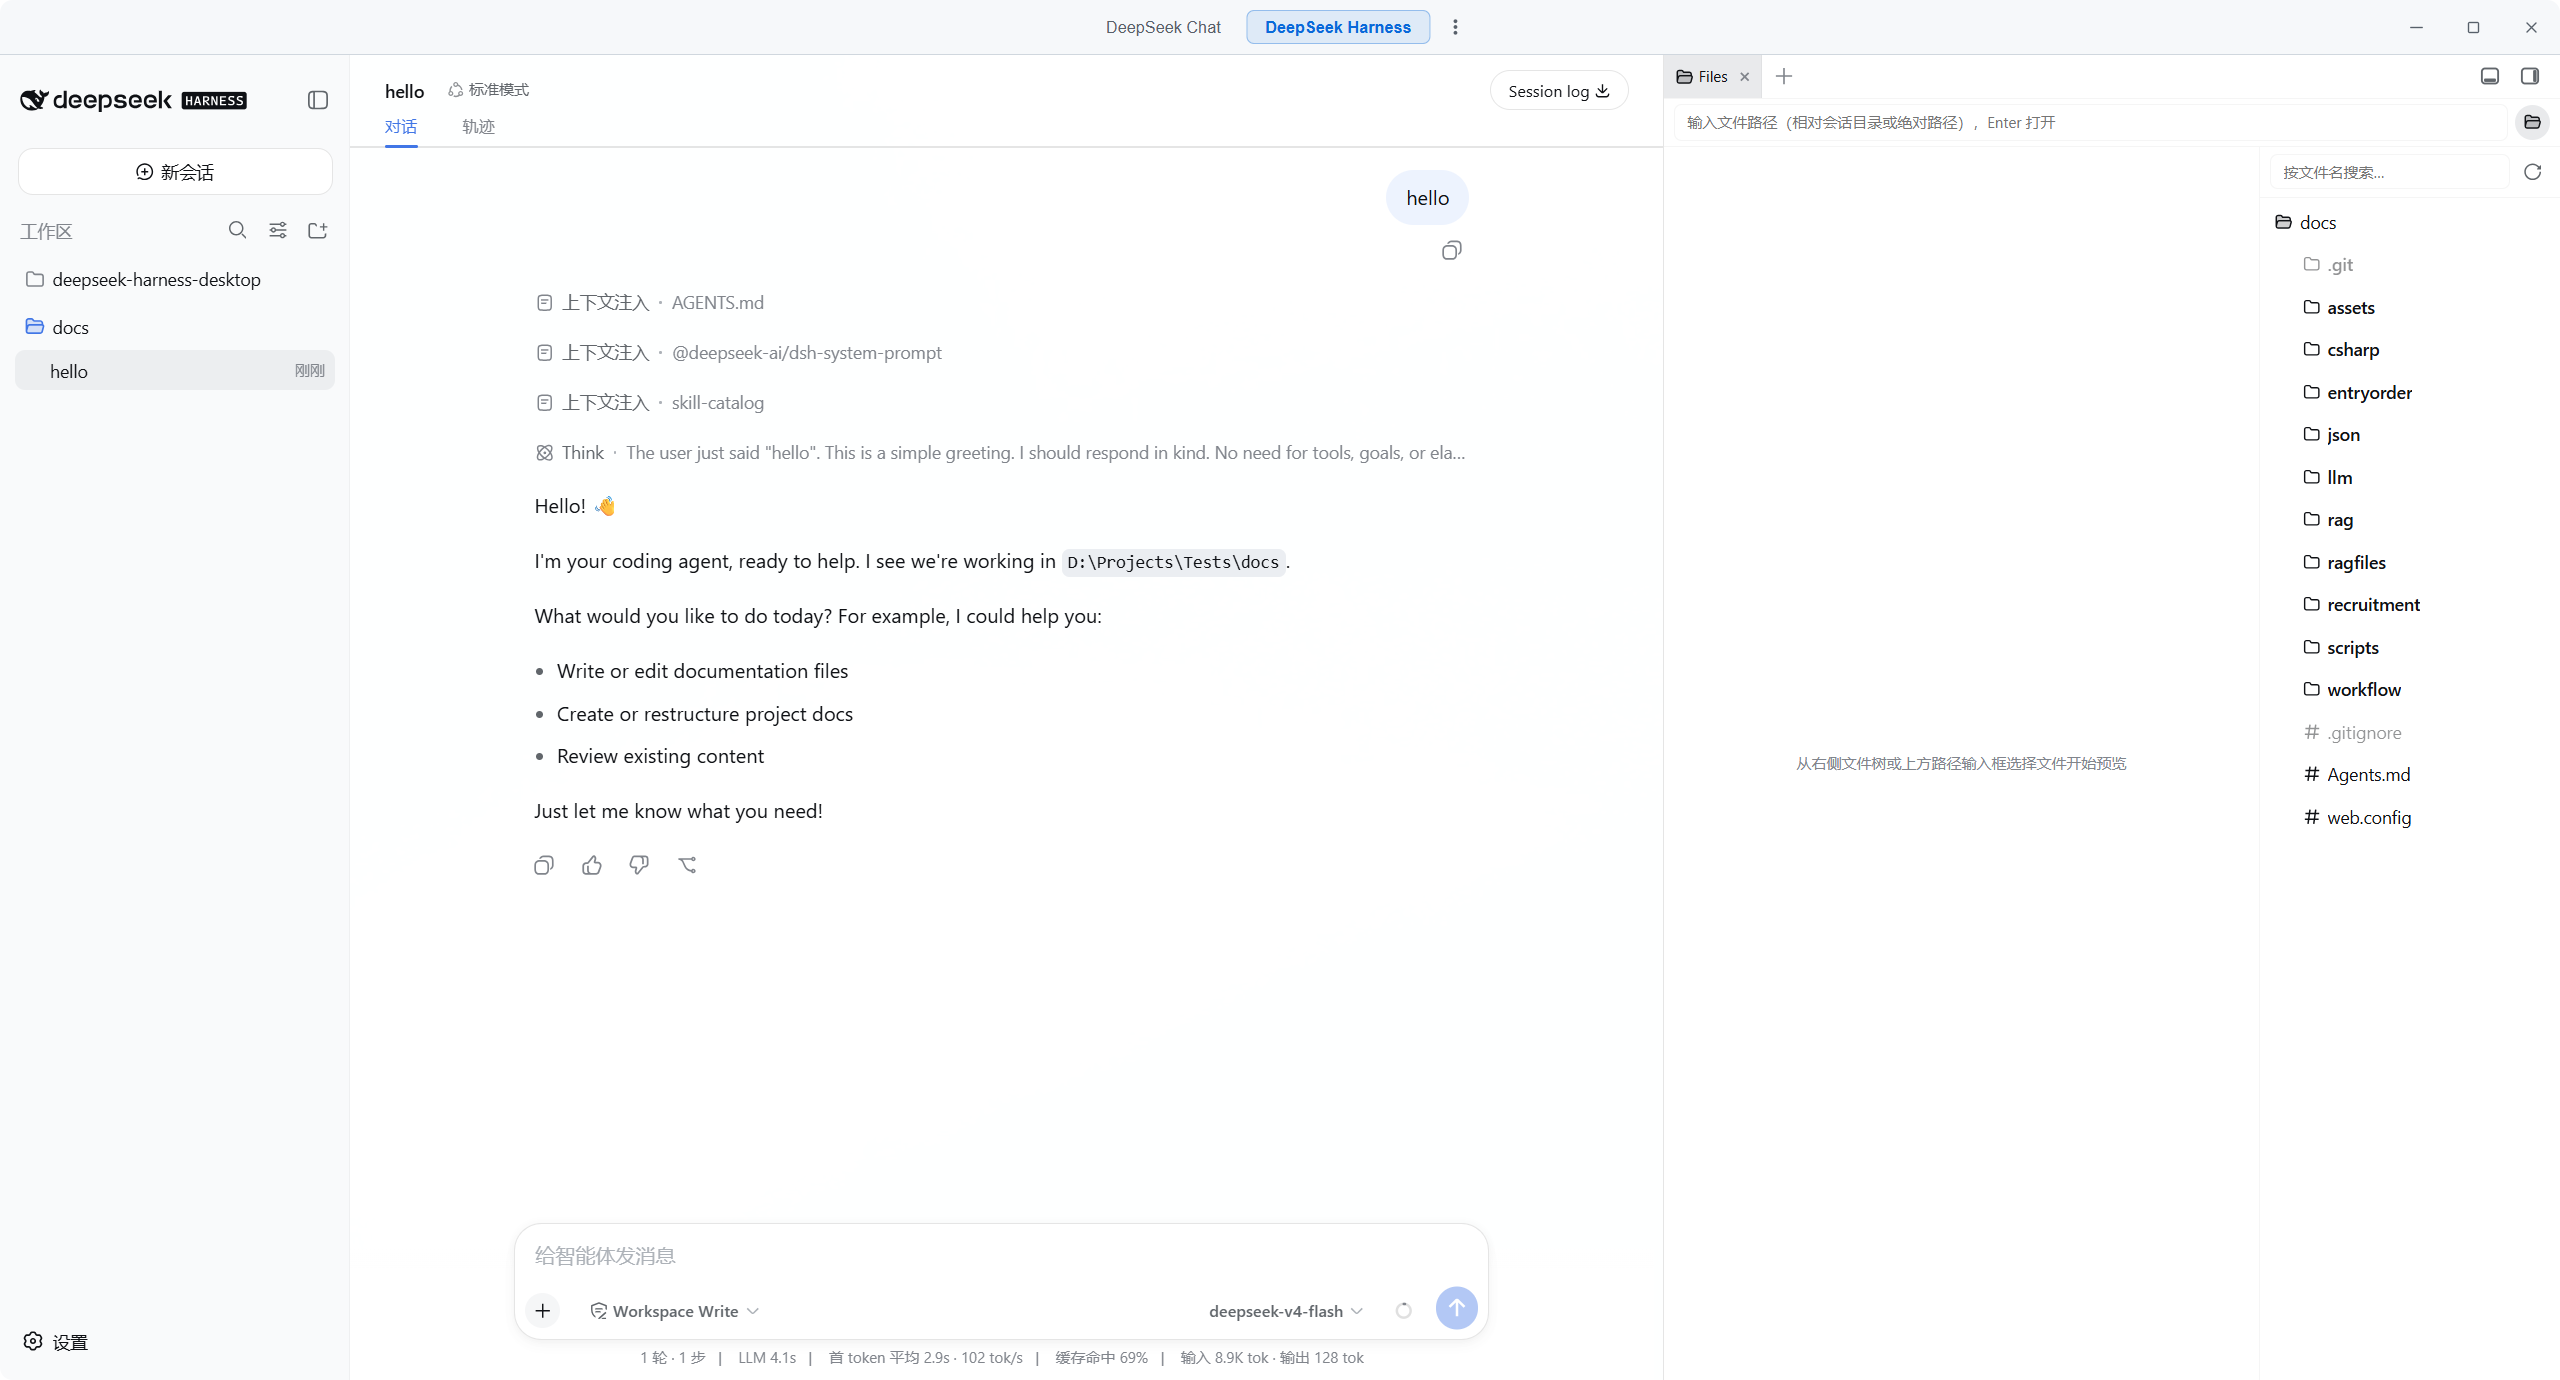
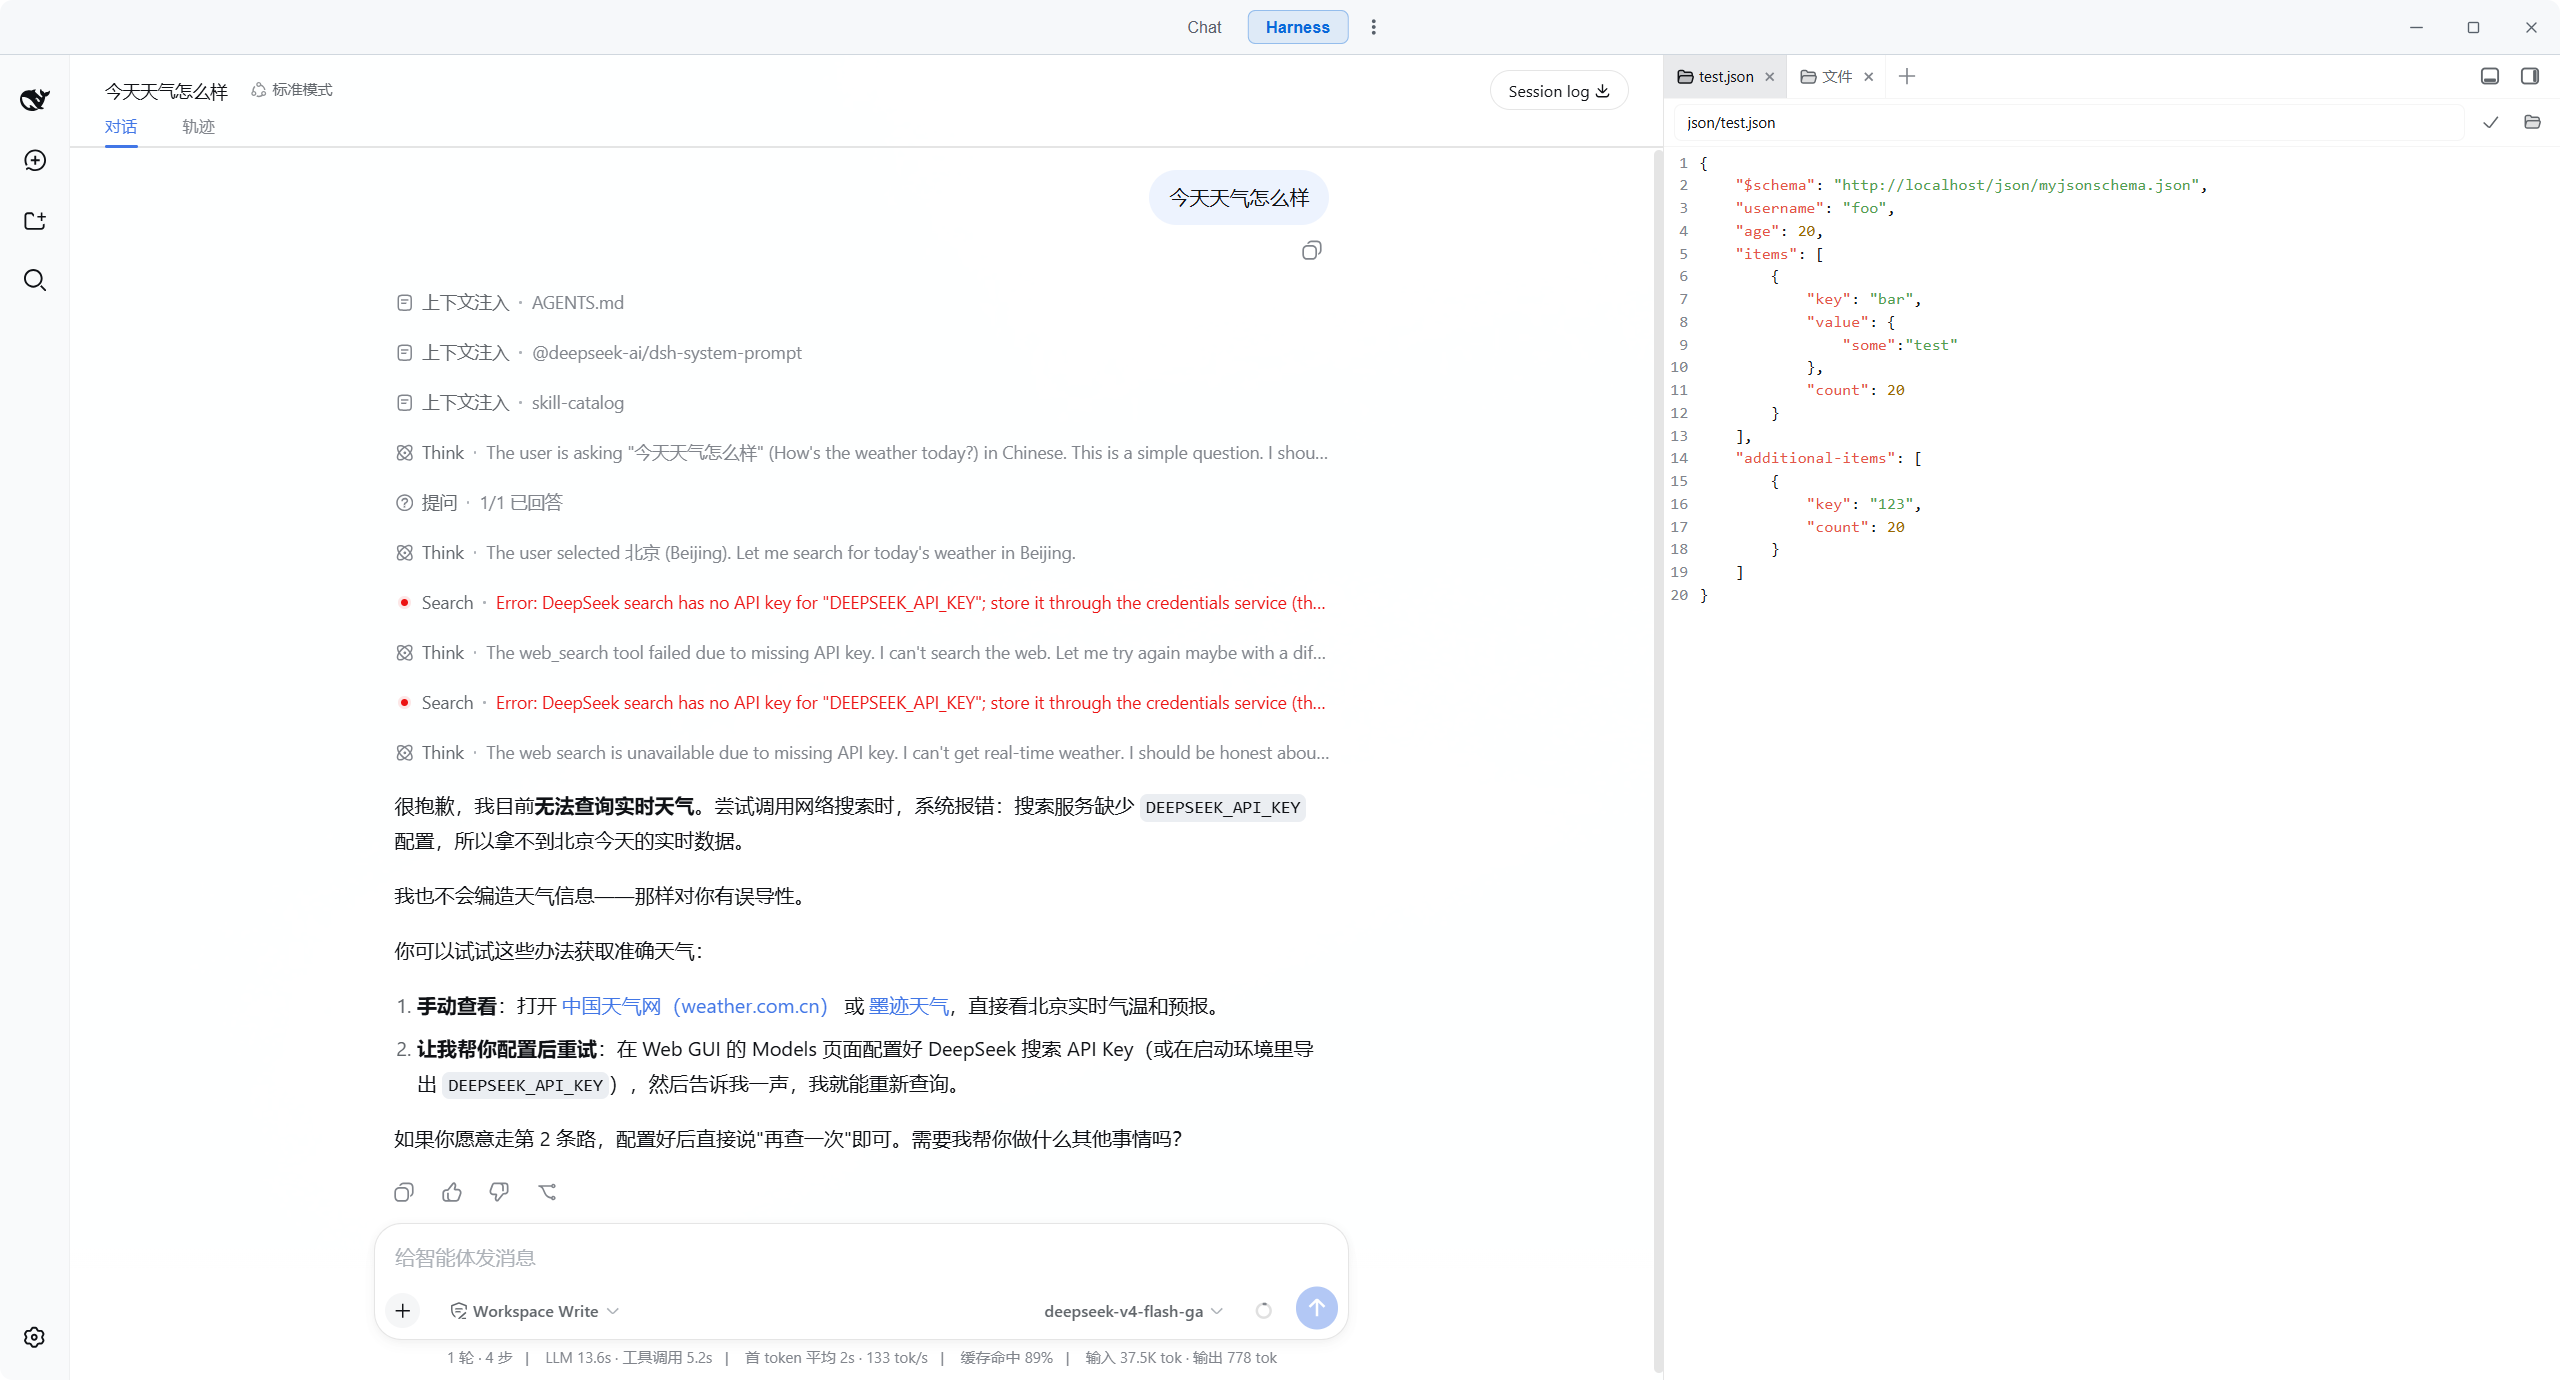
update readme.md

diff --git a/README.md b/README.md
@@ -1,6 +1,6 @@
 # DeepSeek Harness Desktop
 
-把 [DeepSeek Harness](https://github.com/deepseek-ai/deepseek-harness)(dsh)Web 界面封装为原生 **Windows 桌面应用**的 Tauri v2 外壳。
+把 [DeepSeek Harness](https://github.com/deepseek-ai/deepseek-harness)(dsh) Web 界面封装为原生 **Windows 桌面应用**的 Tauri v2 外壳。
 
 ## 截图
 
@@ -16,8 +16,6 @@
 - **自动启动 dsh 服务**:启动时自动执行 `npx @deepseek-ai/dsh web --port 3080`(可用 `DSH_PORT` 环境变量改端口)，加载完成后自动导航到 Harness 界面。
 - **一键环境自检与自动安装**:启动时自动检测运行环境(WebView2 / Node.js / dsh)，缺失的组件会**自动下载安装**(WebView2 用官方引导器静默安装、Node.js 依次尝试 winget / 官方 MSI / 免管理员便携版、dsh 用 `npm install -g`)，安装过程、下载百分比与明细日志都会在启动页面实时展示;安装完成后自动拉起服务。若自动修复失败，页面会给出具体原因、手动指引与“重试”按钮。
 - **内置 DeepSeek Chat**:标题栏一键在 Harness 与官方 DeepSeek Chat 网页之间切换。
-- **自定义标题栏**:可拖拽、窗口控制按钮、居中的导航与“更多”菜单。
-- **更多菜单**:关闭 dsh、关闭 dsh + 窗口、重启 dsh、更新 dsh、关于。
 - **更新能力**:“关于”中可检查更新并一键更新到最新版(从 GitHub Release 下载便携 exe 自动替换并重启)。
 - **单实例**:重复启动会聚焦已有窗口。
 - **全局快捷键**:`F12` 打开/关闭当前页面的 DevTools。
@@ -37,21 +35,17 @@
 
 ### 启动
 
-- 方式一:直接运行构建产物 `publish\DeepSeekHarness.exe`。
-- 方式二:开发运行 `cd src && npm run tauri dev`。
-
-首次启动会自动安装并拉起 dsh 服务(如端口已被占用则直接复用现有服务)。关闭窗口只退出应用、保留 dsh 服务；如需一并关闭服务请使用“更多 → 关闭 dsh + 窗口”。
+- 方式一:直接运行[release/deepseek-harness.exe
+](https://github.com/wq3333/deepseek-harness-desktop/releases/latest)
+- 方式二:开发运行 `cd src && npm run tauri dev`
 
 ### 标题栏功能介绍
 
 | 区域 | 功能 |
 |---|---|
-| DeepSeek Chat | 切换到官方 DeepSeek Chat 网页 |
-| DeepSeek Harness | 切换到 dsh Harness 界面(默认) |
-| 关闭dsh和窗口 | 停止 dsh 服务并退出应用 |
-| 重启 dsh | 重启 dsh 服务并刷新界面 |
-| 更新 dsh | 检查并更新全局 `@deepseek-ai/dsh`(npm) |
-| 关于 | 查看当前桌面版本、检查更新、一键更新应用 |
+| Chat | 切换到官方 DeepSeek Chat 网页 |
+| Harness | 切换到 dsh Harness 界面(默认) |
+| 设置 | 自动关闭dsh和更新 |
 
 ## 构建
 
@@ -61,7 +55,6 @@
 |---|---|
 | [Node.js](https://nodejs.org/) ≥ 20 | 含 npm |
 | [Rust](https://rustup.rs/)(MSVC toolchain) | `rustup default stable-x86_64-pc-windows-msvc` |
-| 联网 | 拉取 cargo 依赖与 npm 依赖 |
 
 > 本项目**只产出便携 exe，不生成安装包**。WebView2 运行时为系统自带，无需打包。
 
@@ -73,7 +66,7 @@
 src\publish.bat
 ```
 
-执行后会把便携版 `deepseek-harness.exe` 复制到 `publish\DeepSeekHarness.exe`，直接双击即可运行。
+执行后会把便携版 `deepseek-harness.exe` 复制到`publish\DeepSeekHarness.exe`，直接双击即可运行。
 
 等价的手工命令:
 
